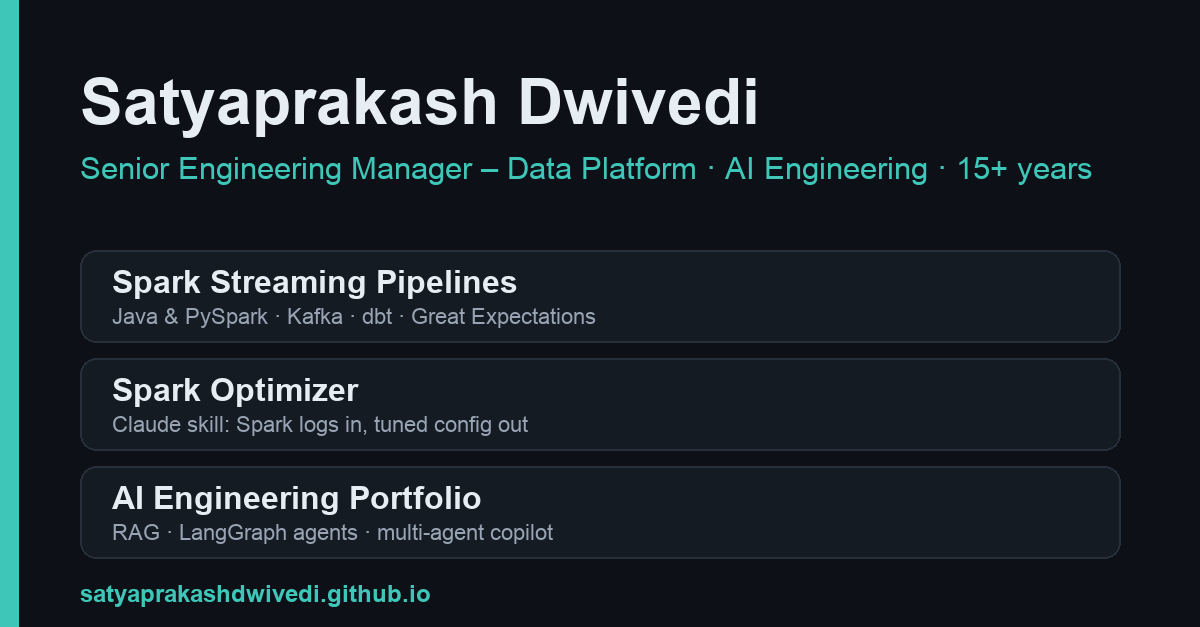
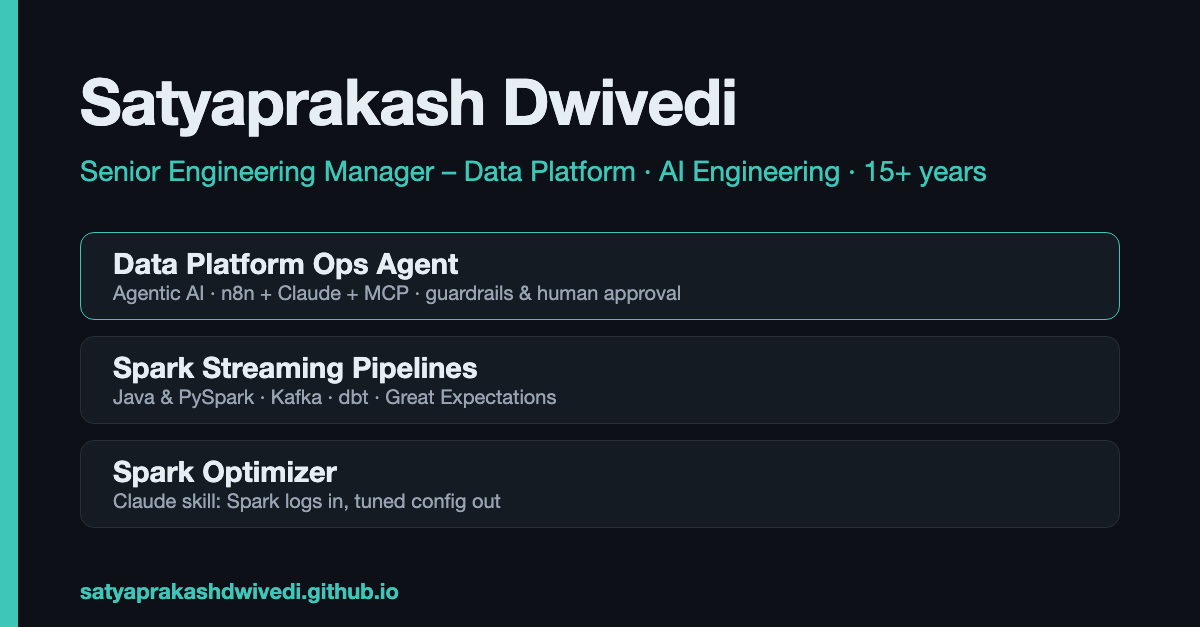
Add Data Platform Ops Agent (n8n + Claude + MCP); agentic AI focus card; new preview

diff --git a/index.html b/index.html
@@ -4,13 +4,13 @@
   <meta charset="utf-8">
   <meta name="viewport" content="width=device-width, initial-scale=1">
   <title>Satyaprakash Dwivedi · Projects</title>
-  <meta name="description" content="Senior Engineering Manager – Data Platform · AI Engineering · 15+ years. Open-source projects I'm actively building: streaming data pipelines, Spark performance tooling and agentic AI.">
+  <meta name="description" content="Senior Engineering Manager – Data Platform · AI Engineering · 15+ years. Open-source projects I'm actively building: an agentic ops assistant (n8n, Claude, MCP), streaming data pipelines and Spark performance tooling.">
   <link rel="canonical" href="https://satyaprakashdwivedi.github.io/">
   <!-- LinkedIn / social preview -->
   <meta property="og:type" content="website">
   <meta property="og:url" content="https://satyaprakashdwivedi.github.io/">
   <meta property="og:title" content="Satyaprakash Dwivedi: Open-source projects">
-  <meta property="og:description" content="Senior Engineering Manager, Data Platform & AI Engineering (15+ years). Reusable open-source work: streaming pipelines (Java & PySpark), a Spark optimizer Claude skill, and agentic AI.">
+  <meta property="og:description" content="Senior Engineering Manager, Data Platform & AI Engineering (15+ years). Reusable open-source work: an agentic data platform ops assistant (n8n, Claude, MCP), streaming pipelines (Java & PySpark) and a Spark optimizer Claude skill.">
   <meta property="og:image" content="https://satyaprakashdwivedi.github.io/assets/preview.png">
   <meta property="og:image:width" content="1200">
   <meta property="og:image:height" content="627">
@@ -125,11 +125,23 @@
     </nav>
 
     <h2>What I work on</h2>
-    <div class="focus-grid"><div class="focus"><h3>Streaming data platforms</h3><p>Spark Structured Streaming and Kafka pipelines that are config-driven, tested and production-shaped, as I&#x27;ve run at Expedia and for a Fortune 100 card issuer.</p></div><div class="focus"><h3>Data quality &amp; reliability</h3><p>Great Expectations, quarantine streams, SLA-bound pipelines and on-call that starts with context, not from zero.</p></div><div class="focus"><h3>AI-assisted engineering</h3><p>Claude skills and multi-agent workflows that turn expertise into tools a whole team can use, always with human review.</p></div></div>
+    <div class="focus-grid"><div class="focus"><h3>Streaming data platforms</h3><p>Spark Structured Streaming and Kafka pipelines that are config-driven, tested and production-shaped, as I&#x27;ve run at Expedia and for a Fortune 100 card issuer.</p></div><div class="focus"><h3>Data quality &amp; reliability</h3><p>Great Expectations, quarantine streams, SLA-bound pipelines and on-call that starts with context, not from zero.</p></div><div class="focus"><h3>Agentic AI in production</h3><p>Agents that act on real platforms safely: n8n and Claude over MCP tools, grounded in deterministic analysis, bounded by guardrails in code and approved by a person before anything changes.</p></div></div>
 
     <h2>Active projects</h2>
-    <p class="section-note">5 public repositories I've committed to in the last 30 days. This list updates itself daily.</p>
+    <p class="section-note">6 public repositories I've committed to in the last 30 days. This list updates itself daily.</p>
     <section class="projects">
+      <article class="card">
+        <header>
+          <h3><a href="https://github.com/satyaprakashdwivedi/data-platform-ops-agent">Data Platform Ops Agent: n8n + Claude + MCP</a></h3>
+        </header>
+        <p class="summary">Agentic on-call for a data platform: n8n orchestrates a Claude agent whose MCP tools wrap the Spark optimizer and data quality checks. It diagnoses failures, proposes a fix and opens the PR once a person approves.</p>
+        <ul class="highlights"><li>The LLM never does the maths: deterministic analyzers give the numbers, the agent reasons over them</li><li>Guardrails in code and expiring human approvals before anything changes</li><li>n8n queue mode (workers, Redis, Postgres) with every tool call and decision audited</li><li>CI boots the full stack and runs every workflow end to end</li></ul>
+        <div class="tags"><span class="tag">Agentic AI</span><span class="tag">n8n</span><span class="tag">Claude</span><span class="tag">MCP</span><span class="tag">Spark</span><span class="tag">Data quality</span></div>
+        <footer>
+          <span>1 commit in the last 30 days · last 18 Nov 2026</span>
+          <a href="https://github.com/satyaprakashdwivedi/data-platform-ops-agent">View on GitHub →</a>
+        </footer>
+      </article>
       <article class="card">
         <header>
           <h3><a href="https://github.com/satyaprakashdwivedi/spark-streaming-pipeline-py">Spark Streaming Pipelines: PySpark</a></h3>

diff --git a/site/template.html b/site/template.html
@@ -4,13 +4,13 @@
   <meta charset="utf-8">
   <meta name="viewport" content="width=device-width, initial-scale=1">
   <title>{{NAME}} · Projects</title>
-  <meta name="description" content="{{HEADLINE}}. Open-source projects I'm actively building: streaming data pipelines, Spark performance tooling and agentic AI.">
+  <meta name="description" content="{{HEADLINE}}. Open-source projects I'm actively building: an agentic ops assistant (n8n, Claude, MCP), streaming data pipelines and Spark performance tooling.">
   <link rel="canonical" href="{{SITE_URL}}/">
   <!-- LinkedIn / social preview -->
   <meta property="og:type" content="website">
   <meta property="og:url" content="{{SITE_URL}}/">
   <meta property="og:title" content="{{NAME}}: Open-source projects">
-  <meta property="og:description" content="Senior Engineering Manager, Data Platform & AI Engineering (15+ years). Reusable open-source work: streaming pipelines (Java & PySpark), a Spark optimizer Claude skill, and agentic AI.">
+  <meta property="og:description" content="Senior Engineering Manager, Data Platform & AI Engineering (15+ years). Reusable open-source work: an agentic data platform ops assistant (n8n, Claude, MCP), streaming pipelines (Java & PySpark) and a Spark optimizer Claude skill.">
   <meta property="og:image" content="{{SITE_URL}}/assets/preview.png">
   <meta property="og:image:width" content="1200">
   <meta property="og:image:height" content="627">
